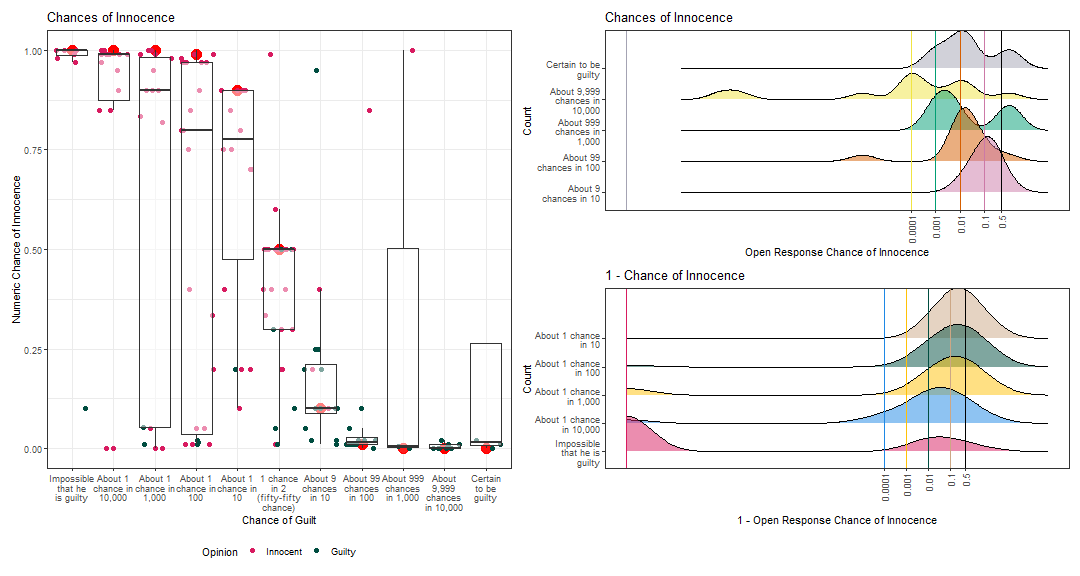
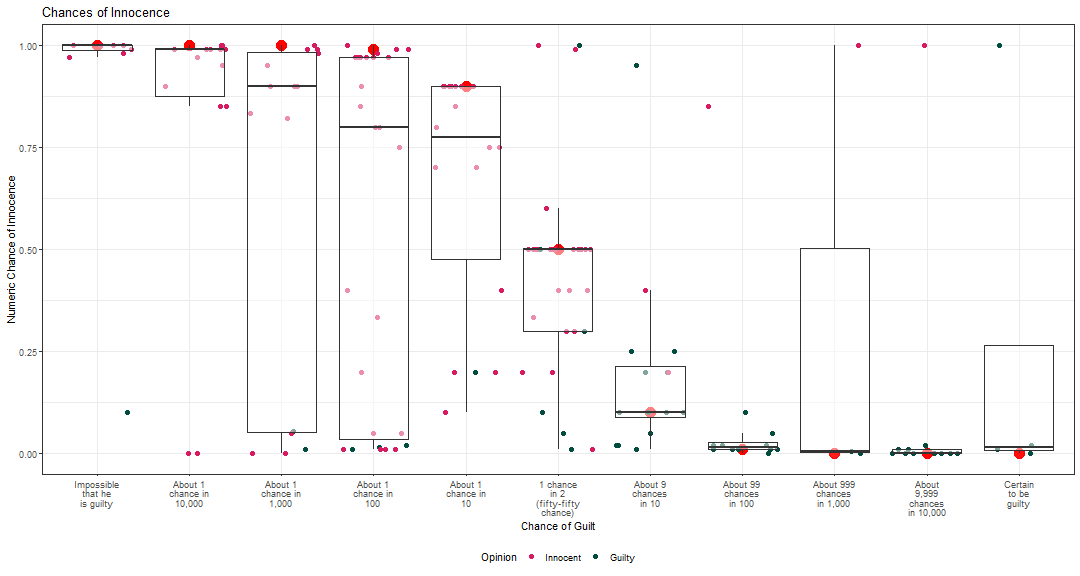
consistent percentages

diff --git a/SDSS_2024/slides.html b/SDSS_2024/slides.html
@@ -86,30 +86,30 @@ class: secondary-blue
 
 ---
 
-class: primary-blue
-
-## Response Scale Considerations
-
-- Issues arise when there is a disconnect between the construct we wish to evaluate and the measurement tool (Groves et. al.)
-  - Equivalent to using a 2nd grade math test to assess the math skill of 4th graders
-- Categorical log scale for chance of guilt (Thompson, Kaasa, &amp; Peterson, 2013)
-  - 1 chance in (10/100/1,000) or guilt
-  - Not significantly different from Bayesian estimate for evidence
-- “Based on the available evidence I believe it is ___ times more likely that Mr. Kelly is guilty than not guilty.” (Thompson &amp; Newman, 2015).
-  - Provided lower, less consistent values than the categorical log scale
-  
----
-
 class: secondary-blue
 
 ## Moving Forward
+
+- Issues arise when there is a disconnect between the construct we wish to evaluate and the measurement tool (Groves et. al.)
+  - Equivalent to using a 2nd grade math test to assess the math skill of 4th graders
 
 - Scale Compression
   - Ceiling effect: firearms testimony is generally highly regarded
   - Individuals may already believe that firearms evidence is reliable (Garrett &amp; Mitchell, 2013)
   - Proposed Solution: Investigate other response methods
 
+---
 
+class: primary-blue
+
+## Response Scale Considerations
+
+- Categorical log scale for chance of guilt (Thompson, Kaasa, &amp; Peterson, 2013)
+  - 1 chance in (10/100/1,000) of guilt
+  - Not significantly different from Bayesian estimate for evidence
+- “Based on the available evidence I believe it is ___ times more likely that Mr. Kelly is guilty than not guilty.” (Thompson &amp; Newman, 2015).
+  - Provided lower, less consistent values than the categorical log scale
+  
 ---
 
 class: center, middle, inverse-blue
@@ -121,16 +121,15 @@ class: center, middle, inverse-blue
 class: primary-blue
 ### What can we do when Likert response scales have scale compression?
 
-- Study comparing response formats
-  - Repeated Questions
+- Repeated Questions
     - Strength of evidence (Likert - 9 point)
     - Convict (Yes/No)
     - Probability of guilt (Hidden or Visible Slider)
-  - New Questions
-    - Guilt (Yes/No)
+- New Questions
+    - Opinion of guilt (Yes/No)
     - What are the chances that defendant committed the crime? (Numeric or multiple choice - Thompson &amp; Newman (2015))
       - In numeric case, individuals were able to choose between expressing chance in terms of guilt or in terms of innocence
-    - How much would you be willing to bet that the defendant committed the crime? (Numeric)
+    - If provided with $50, how much would you be willing to bet that the defendant committed the crime? (Numeric)
   
 - Inclusion of jury instructions (United States Courts for the Ninth Circuit, 2019) and more cross examination on subjectivity
 
@@ -263,24 +262,16 @@ class: primary-blue, center, middle
 
 ---
 
-class: primary-blue, center, middle
+class: primary-blue
+&lt;!-- , center, middle --&gt;
 
 ### Scale Comparison
 
 ![](slides_files/figure-html/unnamed-chunk-11-1.png)&lt;!-- --&gt;
 
----
+- Chance of Innocence: 46.43% consistent (78 out of 168)
 
-class: primary-blue
-
-### Does Guilt = 1 - Chance of Innocence?
-
-- Study of Initial Research Question
-
-
-&lt;img src="images/chance_compare.jpeg" width="75%" /&gt;
-
-- Preliminary Results: 59.4% of participant values correspond
+- Chance of Guilt: 67.69% consistent (88 out of 130)
 
 ---
 
@@ -330,10 +321,21 @@ class: primary-blue
 
 - Some relationship between betting and multiple choice chance
 
+---
+
+class: primary-blue
+## Future Research
+
 - Follow Up Study
+
    - Multiple choice format
+   
      -   "[blank] out of [blank]"
+     
    - Sliding scales
+
+- Does Chance of Innocence = 1 - Chance of Guilt?
+
 ---
 
 class: primary-blue,citation-slide
@@ -408,6 +410,21 @@ class: primary-blue
 - Cognitive neuroscience articles presented with an activated brain image rated higher in scientific reasoning than those with bar charts, a topographical brain graphic, or no graphic (McCabe &amp; Castel)
 
 - Schweitzer et al. found no effect of the inclusion of neuroimages on participant decisions with respect to the defendant's mental state.
+
+---
+
+class: primary-blue
+
+### Does Guilt = 1 - Chance of Innocence?
+
+- Study of Initial Research Question
+
+
+&lt;img src="images/chance_compare.jpeg" width="75%" /&gt;
+
+- Preliminary Results: 59.4% of participant values correspond
+
+
     </textarea>
 <style data-target="print-only">@media screen {.remark-slide-container{display:block;}.remark-slide-scaler{box-shadow:none;}}</style>
 <script src="https://remarkjs.com/downloads/remark-latest.min.js"></script>
